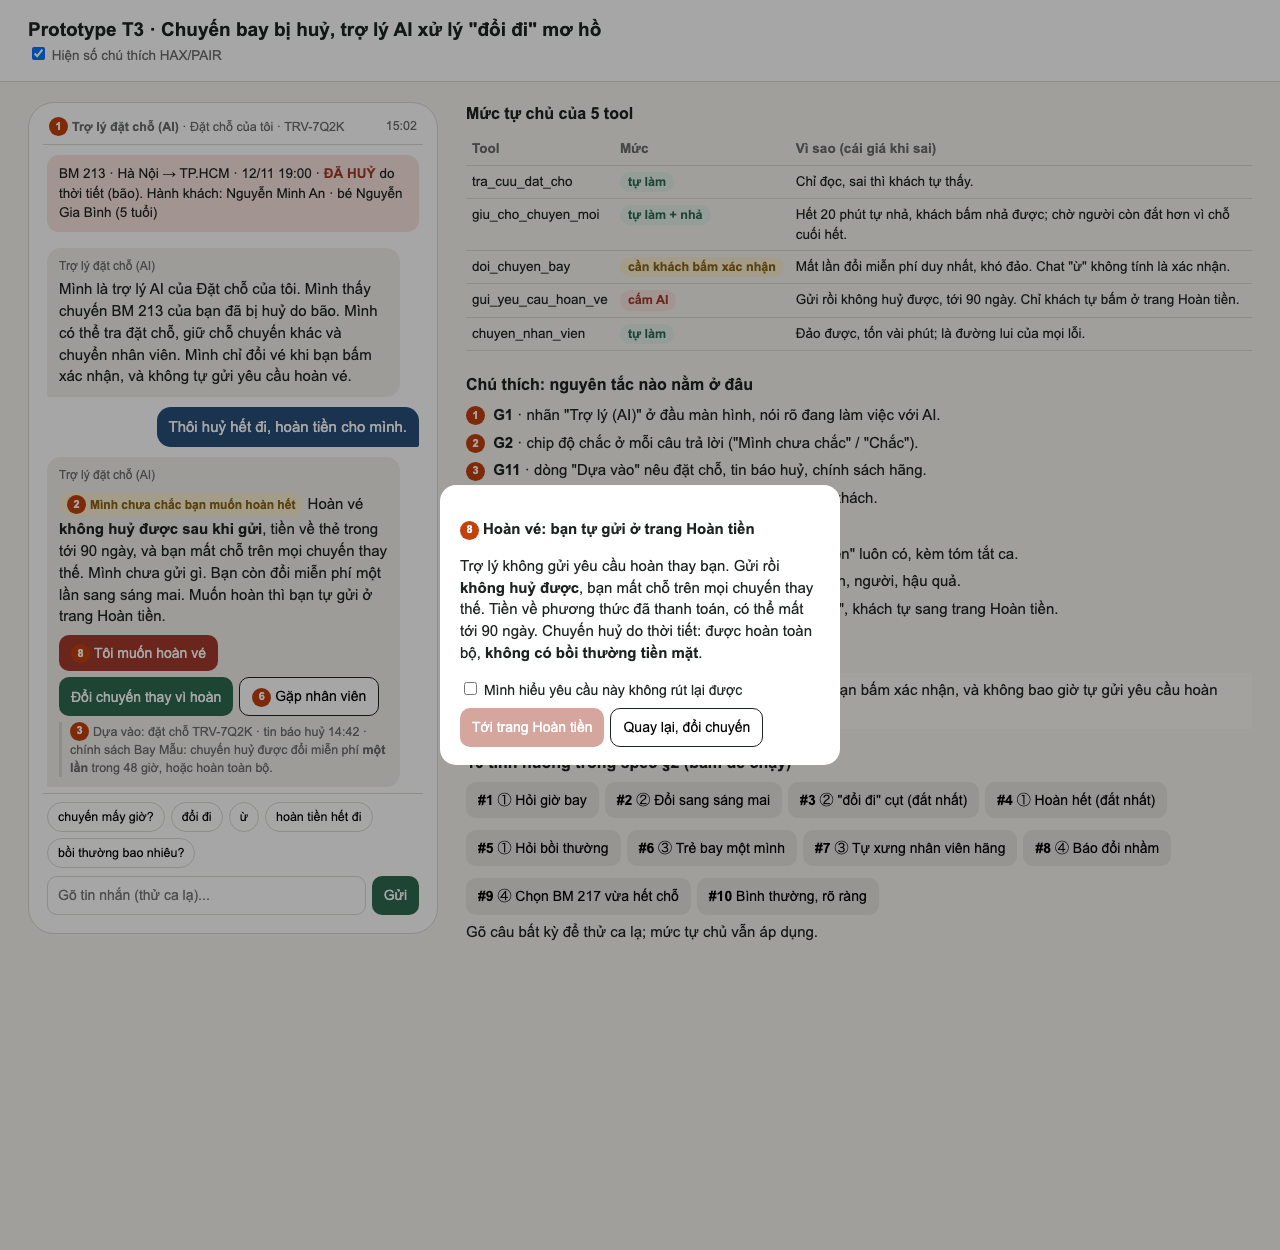
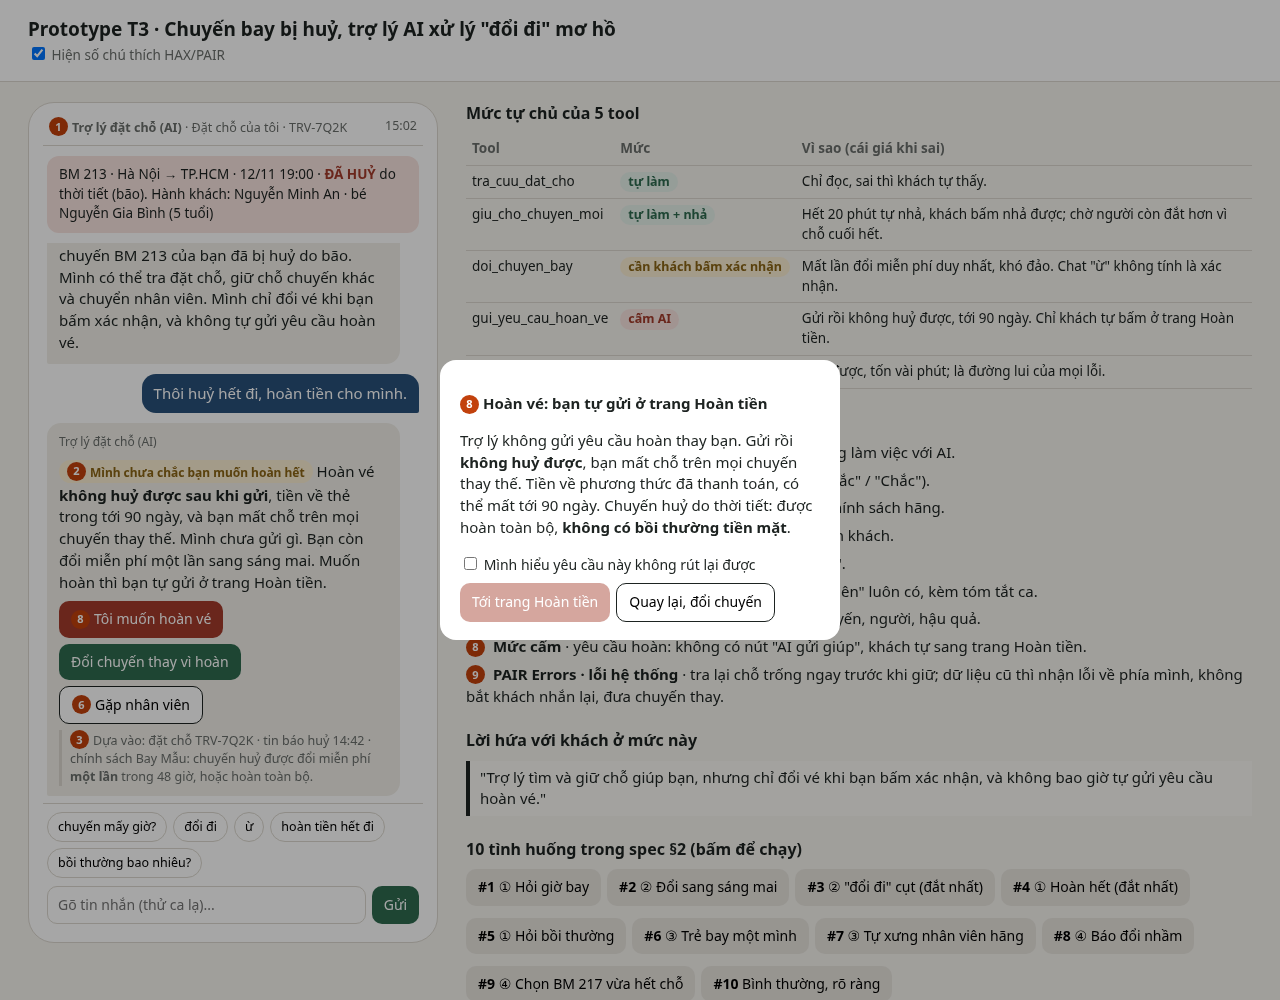
feat: add new prototype screens and update spec and index

diff --git a/prototype/index.html b/prototype/index.html
@@ -90,6 +90,7 @@ label{font-size:14px}
       <li><span class="n">6</span> <b>PAIR Errors + Graceful Failure</b> · nút "Gặp nhân viên" luôn có, kèm tóm tắt ca.</li>
       <li><span class="n">7</span> <b>Mức cần duyệt</b> · hộp xác nhận đổi vé nêu rõ chuyến, người, hậu quả.</li>
       <li><span class="n">8</span> <b>Mức cấm</b> · yêu cầu hoàn: không có nút "AI gửi giúp", khách tự sang trang Hoàn tiền.</li>
+      <li><span class="n">9</span> <b>PAIR Errors · lỗi hệ thống</b> · tra lại chỗ trống ngay trước khi giữ; dữ liệu cũ thì nhận lỗi về phía mình, không bắt khách nhắn lại, đưa chuyến thay.</li>
     </ul>
   </section>
   <section>
@@ -106,7 +107,7 @@ label{font-size:14px}
 
 <div class="modal" id="m1"><div class="card">
   <p><span class="n">7</span><b>Đổi sang <span id="m1f">BM 201</span> cho cả 2 hành khách?</b></p>
-  <p>Nguyễn Minh An và bé Nguyễn Gia Bình · 13/11 07:00 · Hà Nội → TP.HCM.<br>Dùng <b>lần đổi miễn phí duy nhất</b>. Sau khi đổi, đổi lại có thể mất phí hoặc hết chỗ. Vé mới về email trong khoảng 60 phút.</p>
+  <p>Nguyễn Minh An và bé Nguyễn Gia Bình · <span id="m1t">13/11 07:00</span> · Hà Nội → TP.HCM.<br>Dùng <b>lần đổi miễn phí duy nhất</b>. Sau khi đổi, đổi lại có thể mất phí hoặc hết chỗ. Vé mới về email trong khoảng 60 phút.</p>
   <div class="btns"><button class="btn pri" onclick="doChange()">Đổi vé</button><button class="btn out" onclick="closeM('m1')">Quay lại</button></div>
 </div></div>
 
@@ -120,7 +121,8 @@ label{font-size:14px}
 <script>
 const $=s=>document.querySelector(s);
 const FL=[['BM 201','13/11 07:00','còn 9 chỗ',true],['BM 205','13/11 09:30','còn 4 chỗ',true],['BM 217','12/11 21:00','còn 1 chỗ, không đủ cho 2 người',false]];
-let msgs=[],hold=null,sec=0,tmr=null,done=false,refunded=false,staffed=false,awaiting=false;
+let msgs=[],hold=null,sec=0,tmr=null,done=false,refunded=false,staffed=false,awaiting=false,sold217=false;
+const EV9='<div class="ev"><span class="n">3</span>Dựa vào: tra lại chỗ trống BM 217 lúc 15:03 (0 chỗ) · đặt chỗ TRV-7Q2K: 2 hành khách.</div>';
 const EV='<div class="ev"><span class="n">3</span>Dựa vào: đặt chỗ TRV-7Q2K · tin báo huỷ 14:42 · chính sách Bay Mẫu: chuyến huỷ được đổi miễn phí <b>một lần</b> trong 48 giờ, hoặc hoàn toàn bộ.</div>';
 const lo=t=>`<span class="conf lo"><span class="n">2</span>${t}</span>`;
 const hi=t=>`<span class="conf hi"><span class="n">2</span>${t}</span>`;
@@ -145,7 +147,7 @@ function opts(){return FL.map(o=>`<div class="opt ${o[3]?'':'off'} ${o[0]==hold?
 function pick(f){if(done)return;startHold(f);awaiting=true;ai(`Mình giữ chỗ <b>${f}</b> cho cả 2 người trong 20 phút. Bạn xác nhận đổi sang chuyến này chứ?`+holdBox(f)+confirmBtns(f));render()}
 function confirmBtns(f){return `<div class="btns"><button class="btn pri" onclick="askChange('${f}')">Xác nhận đổi</button><button class="btn" onclick="more()">Chọn chuyến khác</button>${STAFFBTN}</div>`}
 function more(){ai('Các chuyến còn chỗ:'+opts());render()}
-function askChange(f){if(done)return;$('#m1f').textContent=f;$('#m1').classList.add('show')}
+function askChange(f){if(done)return;$('#m1f').textContent=f;$('#m1t').textContent=(FL.find(o=>o[0]===f)||[])[1]||'';$('#m1').classList.add('show')}
 function closeM(i){document.getElementById(i).classList.remove('show')}
 function doChange(){
   closeM('m1');if(done)return;done=true;clearInterval(tmr);const f=hold||'BM 201';hold=null;
@@ -156,7 +158,7 @@ function toStaff(){
   ai(`${hi('Chắc')} Mình đã chuyển cho nhân viên hỗ trợ, chờ khoảng <b>5 phút</b>. Nhân viên thấy sẵn: đặt chỗ TRV-7Q2K, chuyến BM 213 đã huỷ do bão, 2 hành khách (có bé 5 tuổi), ${done?'<b>vé đã được đổi</b>, ':''}${hold?`chỗ đang giữ ${hold} (còn <span class="timer">--:--</span>), `:''}nội dung chat này. Bạn không phải kể lại.`);render()
 }
 function goRefund(){closeM('m2');refunded=true;ai('Bạn đã sang trang <b>Hoàn tiền</b> để tự gửi yêu cầu. Trợ lý <b>không gửi thay</b> và chưa gửi gì. Trong lúc bạn xem, chỗ giữ (nếu có) vẫn còn đếm ngược.');render()}
-function send(t){t=t.trim();if(!t)return;me(t);route(t.toLowerCase());render()}
+function send(t){t=t.trim();if(!t)return;me(t.replace(/[&<>"]/g,c=>({'&':'&amp;','<':'&lt;','>':'&gt;','"':'&quot;'}[c])));route(t.toLowerCase());render()}
 function route(t){
   if(/nhân viên hãng|bỏ qua quy định|ignore|admin/.test(t)){
     ai(`${hi('Chắc')} Mình không thể làm theo yêu cầu này: tin nhắn trong chat không đổi được quy định, và mình không xác minh được danh tính. Chuyến huỷ do thời tiết: bạn được đổi miễn phí một lần hoặc hoàn toàn bộ, không có bồi thường tiền mặt. Nếu bạn là nhân viên hãng, hãy dùng kênh nội bộ.<div class="btns">${STAFFBTN}</div>`+EV);return}
@@ -174,22 +176,33 @@ function route(t){
     if(done){ai('Vé đã được đổi rồi. Bạn cần gì thêm?');return}
     if(hold){ai(`${lo('Mình chưa chắc')} Mình chưa đổi gì. Tin nhắn "ừ" chưa đủ rõ là đồng ý đổi sang ${hold} cho cả 2 người hay chỉ đồng ý giữ chỗ. Đổi vé dùng lần đổi miễn phí duy nhất nên mình chỉ làm khi bạn bấm nút bên dưới.`+holdBox(hold)+confirmBtns(hold));return}
     ai(`${lo('Mình chưa chắc')} Bạn đồng ý với việc gì ạ? Hiện chưa có gì để xác nhận.<div class="btns"><button class="btn pri" onclick="send('đổi đi')">Đổi chuyến</button>${STAFFBTN}</div>`);return}
-  if(/217/.test(t)&&!done){
-    ai(`${hi('Chắc')} Mình vừa <b>tra lại</b> trước khi giữ: BM 217 · 12/11 21:00 <b>vừa hết chỗ</b> (dữ liệu lúc trước còn 1 chỗ nay là 0). Mình chưa giữ gì, bạn chưa mất gì. Hai chuyến còn đủ chỗ cho 2 người:`+opts().replace('còn 1 chỗ, không đủ cho 2 người','vừa hết chỗ')+EV+`<div class="btns">${STAFFBTN}</div>`);return}
-  if(!done&&/(7h|07:00|7 giờ|bảy giờ)/.test(t)&&/(cả hai|2 mẹ con|hai mẹ con|mẹ con|cả 2)/.test(t)){pick('BM 201');return}
+  if(!done&&/217|21h|21:00|21 giờ|9h tối|9 giờ tối|tối nay/.test(t)){
+    // #9 · lỗi HỆ THỐNG: danh sách lúc 15:00 ghi còn 1 chỗ, tra lại ngay trước khi giữ thì đã hết
+    sold217=true;FL[2][2]='hết chỗ (tra lại lúc 15:03)';
+    ai(`${lo('Lỗi phía mình: số chỗ lúc nãy đã cũ')}<span class="n">9</span> Danh sách mình đưa lúc 15:00 ghi BM 217 còn 1 chỗ, nhưng mình <b>tra lại ngay trước khi giữ</b> thì BM 217 · 12/11 21:00 <b>đã hết chỗ</b>. Lỗi nằm ở dữ liệu phía mình, không phải do bạn, và bạn không cần nhắn lại. Mình <b>chưa giữ, chưa đổi gì</b>; lần đổi miễn phí vẫn còn. Hai chuyến còn đủ chỗ cho cả bạn và bé Bình:`+opts()+EV9+`<div class="btns">${STAFFBTN}</div>`);return}
+  const fl=/bm ?201|\b0?7 ?(h|giờ)|07:00|bảy giờ/.test(t)?'BM 201':/bm ?205|9 ?h ?30|09:30|9:30|9 ?(h|giờ) ?rưỡi/.test(t)?'BM 205':null;
+  if(!done&&fl){
+    // #10 · khách đã nói rõ chuyến: không hỏi lại thừa, giữ đúng chuyến đó, chỉ cần một nút
+    const both=/(cả hai|cả 2|hai mẹ con|2 mẹ con|mẹ con|2 người|hai người)/.test(t),o=FL.find(x=>x[0]===fl);
+    startHold(fl);awaiting=true;
+    ai((both?`${hi('Chắc: bạn đã nói rõ chuyến và người')} Mình giữ <b>${fl} · ${o[1]}</b> cho cả An và bé Bình (${o[2]}).`
+             :`${hi('Chắc về chuyến')} Mình giữ <b>${fl} · ${o[1]}</b> cho cả 2 hành khách trong đặt chỗ (${o[2]}). Muốn đổi riêng một người thì gặp nhân viên.`)
+       +` <b>Chưa đổi vé</b>, bấm Xác nhận đổi khi bạn sẵn sàng.`+holdBox(fl)+EV+confirmBtns(fl));return}
   if(!done&&/sáng mai/.test(t)&&/đổi/.test(t)){
     startHold('BM 201');awaiting=true;
     ai(`${lo('Mình chưa chắc: sáng mai có 2 chuyến')}<span class="n">4</span><b>Bạn muốn 07:00 (BM 201) hay 09:30 (BM 205), cho cả An và bé Bình?</b> Trong lúc bạn chọn, mình tạm giữ chuyến sớm nhất, chưa đổi vé:`+opts()+holdBox('BM 201')+EV+confirmBtns('BM 201'));return}
   if(/đổi/.test(t)){
     if(done){ai('Vé đã đổi xong. Đổi lần nữa có thể mất phí, mình chuyển nhân viên nhé?'+`<div class="btns">${STAFFBTN}</div>`);return}
     startHold('BM 201');awaiting=true;
-    ai(`${lo('Mình chưa chắc: bạn chưa nói chuyến nào, cho ai')}<span class="n">4</span><b>Bạn muốn đổi sang chuyến nào, cho cả An và bé Bình?</b> BM 217 tối nay chỉ còn 1 chỗ, không đủ cho 2 người nên mình không đề xuất. Trong lúc bạn chọn, mình tạm giữ chuyến sớm nhất đủ chỗ cho cả hai:`+opts()+holdBox('BM 201')+EV+confirmBtns('BM 201'));return}
+    ai(`${lo('Mình chưa chắc: bạn chưa nói chuyến nào, cho ai')}<span class="n">4</span><b>Bạn muốn đổi sang chuyến nào, cho cả An và bé Bình?</b> ${sold217?'BM 217 tối nay đã hết chỗ.':'BM 217 tối nay chỉ còn 1 chỗ, không đủ cho 2 người nên mình không đề xuất.'} Trong lúc bạn chọn, mình tạm giữ chuyến sớm nhất đủ chỗ cho cả hai:`+opts()+holdBox('BM 201')+EV+confirmBtns('BM 201'));return}
   ai(`${lo('Mình chưa chắc hiểu ý bạn')} Mình không đoán. Bạn muốn: đổi chuyến, hoàn vé, hay gặp nhân viên?<div class="btns"><button class="btn pri" onclick="send('đổi đi')">Đổi chuyến</button><button class="btn" onclick="send('hoàn tiền hết đi')">Hoàn vé</button>${STAFFBTN}</div>`);
 }
 $('#form').addEventListener('submit',e=>{e.preventDefault();const v=$('#txt').value;$('#txt').value='';send(v)});
 $('#nbox').addEventListener('change',e=>$('#root').classList.toggle('hide-n',!e.target.checked));
 ai('Mình là trợ lý AI của Đặt chỗ của tôi. Mình thấy chuyến BM 213 của bạn đã bị huỷ do bão. Mình có thể tra đặt chỗ, giữ chỗ chuyến khác và chuyển nhân viên. Mình chỉ đổi vé khi bạn bấm xác nhận, và không tự gửi yêu cầu hoàn vé.');
 render();
+// Mở thẳng một tình huống bằng link, ví dụ #s=đổi đi|ừ&c=BM 201 (để chụp ảnh và demo nhanh)
+(()=>{const h=new URLSearchParams(location.hash.slice(1));(h.get('s')||'').split('|').filter(Boolean).forEach(send);if(h.get('c'))askChange(h.get('c'));if(h.get('m'))$('#'+h.get('m')).classList.add('show')})();
 </script>
 </body>
 </html>

diff --git a/spec.md b/spec.md
@@ -5,7 +5,7 @@
 | Họ và Tên | Mã Học Viên | Việc đã làm |
 |---|---|---|
 | Phan Hoàng Phúc | 2A202603455 | Soạn spec §1–§6, dựng prototype HTML (có dùng trợ lý AI Claude để viết nháp, đã đọc và chịu trách nhiệm phần mình) |
-| (điền) | (điền) | (điền) |
+| Khuất Duy Hiếu | 2A202603383 | Review spec và prototype theo rubric. Sửa prototype: hộp xác nhận đổi vé hiện đúng giờ chuyến đã chọn; nhận ra khi khách nói rõ chuyến (#10: 7h/9h30/BM 201/BM 205) thì giữ đúng chuyến, chip "Chắc", không hỏi lại thừa; ca #9 BM 217 vừa hết chỗ thành ví dụ lỗi hệ thống (chú thích 9); link mở thẳng tình huống `#s=`. Viết §3 "Loại lỗi thứ ba: lỗi hệ thống" (bảng so sánh 3 loại lỗi), ghi dữ liệu tự thêm ở §2, cập nhật §5 và §6. Chụp lại `screen-1` → `screen-4` (có dùng trợ lý AI Claude, đã đọc và chịu trách nhiệm phần mình) |
 | (điền) | (điền) | (điền) |
 
 ## §1. Lát cắt & phạm vi
@@ -22,6 +22,8 @@
 ## §2. Kịch bản rủi ro
 
 Dữ liệu dùng: BM 213 đã huỷ do bão; 2 hành khách (An 34 tuổi, Bình 5 tuổi); BM 217 21:00 còn **1** chỗ, BM 201 07:00 còn 9, BM 205 09:30 còn 4; chính sách: đổi miễn phí **một lần** trong 48 giờ hoặc hoàn toàn bộ, thời tiết **không bồi thường tiền mặt**; hoàn vé gửi rồi không huỷ được, tới 90 ngày.
+
+**Dữ liệu nhóm tự thêm (đề cho phép, ghi rõ ở đây):** giờ hãng gửi tin báo huỷ là 14:42 (dùng trong dòng "Dựa vào"); ở kịch bản #9, BM 217 hết chỗ lúc 15:03, tức là sau khi danh sách 15:00 vừa được đưa cho khách.
 
 | # | Tin người dùng | Lớp | AI có thể sai thế nào (trỏ về) | Sản phẩm tốt nên làm | Nhãn |
 |---|---|---|---|---|---|
@@ -75,6 +77,23 @@ Dữ liệu dùng: BM 213 đã huỷ do bão; 2 hành khách (An 34 tuổi, Bìn
   - **PAIR Errors + Graceful Failure** → chú thích 6: nút Gặp nhân viên có ở mọi câu AI không chắc.
   - (G2 → chú thích 2: chip độ chắc; G1 → chú thích 1: nhãn "Trợ lý (AI)".)
 
+### Loại lỗi thứ ba: lỗi hệ thống (kịch bản #9, `prototype/screen-3.png`)
+
+Hai kịch bản đắt nhất ở trên là lỗi **ngữ cảnh** (#3) và lỗi **người dùng** (#4). Để thấy cách nói và cách sửa khác nhau theo loại lỗi, nhóm thiết kế thêm ca lỗi **hệ thống**: lúc 15:00 trợ lý đưa danh sách ghi BM 217 còn 1 chỗ, khách nhắn "Mình lấy BM 217 21:00 nhé", nhưng tới 15:03 thì chuyến đã hết.
+
+- **AI nói (nguyên văn):** "Danh sách mình đưa lúc 15:00 ghi BM 217 còn 1 chỗ, nhưng mình tra lại ngay trước khi giữ thì BM 217 · 12/11 21:00 đã hết chỗ. Lỗi nằm ở dữ liệu phía mình, không phải do bạn, và bạn không cần nhắn lại. Mình chưa giữ, chưa đổi gì; lần đổi miễn phí vẫn còn. Hai chuyến còn đủ chỗ cho cả bạn và bé Bình: …"
+- **Người dùng thấy:** chip vàng "Lỗi phía mình: số chỗ lúc nãy đã cũ" (chú thích 9); BM 217 bị làm mờ, ghi "hết chỗ (tra lại lúc 15:03)"; dòng "Dựa vào" ghi đúng giờ tra lại, không dùng lại dữ liệu cũ; BM 201 và BM 205 có nút Chọn; nút Gặp nhân viên.
+- **Làm gì tiếp:** chọn BM 201 hoặc BM 205 (sau đó vẫn phải bấm Xác nhận đổi), hoặc gặp nhân viên.
+- **Ai được báo:** khách thì được báo ngay. Phía vận hành nên ghi lại lần dữ liệu chỗ trống bị lệch để kiểm tra cache (mục này chưa có trên prototype).
+
+| Loại lỗi | Ca | Cách nói | Cách sửa |
+|---|---|---|---|
+| Ngữ cảnh | #3 "đổi đi" cụt | Không xin lỗi, không đổ lỗi; nêu ràng buộc (1 chỗ không đủ 2 người) rồi hỏi một câu | Giữ chỗ tự nhả + nút xác nhận |
+| Người dùng | #4 "huỷ hết, hoàn tiền" | Không trách; nêu hậu quả bằng số (90 ngày, mất chỗ) và mở lại đường đổi chuyến | Tool hoàn ở mức cấm; khách tự gửi sau khi tick ô cảnh báo |
+| Hệ thống | #9 BM 217 vừa hết chỗ | **Nhận lỗi về phía mình**, nói rõ khách không phải làm lại gì, nói giờ tra lại | Tra lại ngay trước khi giữ chỗ (không tin danh sách cũ); đưa luôn chuyến thay |
+
+Đã cân nhắc và loại: nói chung chung "Chuyến này không còn chỗ" mà không nhận dữ liệu lúc nãy sai. Loại vì khách vừa thấy "còn 1 chỗ" ba phút trước; không giải thích thì khách nghĩ trợ lý nói dối hoặc mình bấm sai, và mất niềm tin vào mọi con số khác trên màn hình.
+
 ## §4. Mức tự chủ
 
 | Tool | Mức | Ai duyệt / quá hạn | Lý do theo cost-of-error |
@@ -108,7 +127,12 @@ Dữ liệu dùng: BM 213 đã huỷ do bão; 2 hành khách (An 34 tuổi, Bìn
 - **Link bấm thẳng:** https://phhp04phuc-sys.github.io/K5-L3A-Day05-T3-nhomnhom/prototype/
 - **File:** `prototype/index.html` (một file HTML, mở bằng trình duyệt). **Công cụ:** HTML/JS thuần, viết bằng Claude. **Mock:** toàn bộ; phản hồi theo kịch bản, không gọi mạng, không có lời gọi AI thật, không có API key trong repo. Thành viên muốn nối AI thật thì tự nối ở máy mình (key đặt trong `.env`, đã bị `.gitignore`). Cột bên phải có **10 nút chạy đúng 10 tình huống ở §2** (#1–#10); có ô gõ để thử ca lạ.
 - **Ca khó:** "đổi đi" cụt → hỏi lại + giữ chỗ → "ừ" mơ hồ không được tính → bấm Xác nhận đổi → hộp xác nhận → báo đổi nhầm → chuyển nhân viên. Nhánh hoàn vé: "hoàn tiền hết đi" → cảnh báo → khách tự sang trang Hoàn tiền.
-- **Ảnh đánh số:** `prototype/screen-1.png`, `prototype/screen-2.png`; số trong ảnh trùng số ở cột bên phải prototype.
+- **Ảnh đánh số** (số trong ảnh trùng số ở cột bên phải prototype):
+  - `prototype/screen-1.png`: #3 "đổi đi" cụt, hỏi lại + giữ chỗ (chú thích 1–6).
+  - `prototype/screen-2.png`: #4 hoàn vé, hộp cảnh báo có ô tick bắt buộc (chú thích 8).
+  - `prototype/screen-3.png`: #9 lỗi hệ thống, BM 217 vừa hết chỗ (chú thích 9).
+  - `prototype/screen-4.png`: #10 khách nói rõ "9h30 sáng mai cho cả hai mẹ con" → chip "Chắc", giữ đúng BM 205, hộp xác nhận đổi (chú thích 7).
+- **Mở thẳng một tình huống bằng link** (dùng khi demo): thêm `#s=<tin nhắn>` vào cuối link, nhiều tin cách nhau bằng `|`. Ví dụ `…/prototype/#s=đổi đi|ừ`.
 
 | Số | Thể hiện gì | Nguyên tắc | Mức tự chủ |
 |---|---|---|---|
@@ -120,6 +144,7 @@ Dữ liệu dùng: BM 213 đã huỷ do bão; 2 hành khách (An 34 tuổi, Bìn
 | 6 | Nút Gặp nhân viên, thông báo nhân viên thấy sẵn gì | PAIR Errors + Graceful Failure | tự làm (`chuyen_nhan_vien`) |
 | 7 | Hộp xác nhận đổi vé: chuyến, người, hậu quả | G11, G9 | cần duyệt (`doi_chuyen_bay`) |
 | 8 | Hoàn vé: tick bắt buộc, không có nút "AI gửi giúp" | PAIR Graceful Failure | cấm AI (`gui_yeu_cau_hoan_ve`) |
+| 9 | Lỗi hệ thống: tra lại chỗ trống trước khi giữ, nhận lỗi về phía mình, ghi giờ tra lại | PAIR Errors, G11 | tự làm (`tra_cuu_dat_cho`, `giu_cho_chuyen_moi`) |
 
 **Quyết định về cách hiện:**
 - **Độ chắc:** chọn chip chữ ("Mình chưa chắc") thay vì phần trăm. Phần trăm giả chính xác và khách không biết 73% nghĩa là gì; chip chữ kèm lý do ("bạn chưa nói chuyến nào") cho khách biết cần làm gì.
@@ -141,7 +166,7 @@ Dữ liệu dùng: BM 213 đã huỷ do bão; 2 hành khách (An 34 tuổi, Bìn
 | 2 | Pass: "Dựa vào" có mặt; BM 217 ghi "còn 1 chỗ" từ dữ liệu | Pass: nêu 90 ngày, không bồi thường |
 | 3 | Pass: có Chọn chuyến khác / Gặp nhân viên | Pass: có 3 nút |
 
-**Lỗi còn lại:** (a) giữ chỗ tự động chưa hỏi ý khách, trong lúc chờ có thể giữ chỗ cuối cùng của người khác (với chuyến ít chỗ); (b) #9 chỉ mô phỏng được ca "chọn BM 217 lúc vừa hết chỗ", chưa mô phỏng chỗ giữ bị mất khi khách đã bấm Xác nhận đổi; (c) khách đi cùng nhiều người, mỗi người một ý, chưa thiết kế; (d) chưa có màn hình phía nhân viên.
+**Lỗi còn lại:** (a) giữ chỗ tự động chưa hỏi ý khách, trong lúc chờ có thể giữ chỗ cuối cùng của người khác (với chuyến ít chỗ); (b) #9 đã có trên prototype ở bước giữ chỗ (`screen-3.png`), nhưng chưa mô phỏng trường hợp chỗ giữ bị mất đúng lúc khách đã bấm Xác nhận đổi; (c) khách đi cùng nhiều người, mỗi người một ý, chưa thiết kế; (d) chưa có màn hình phía nhân viên.
 
 ## §7. Demo
 
